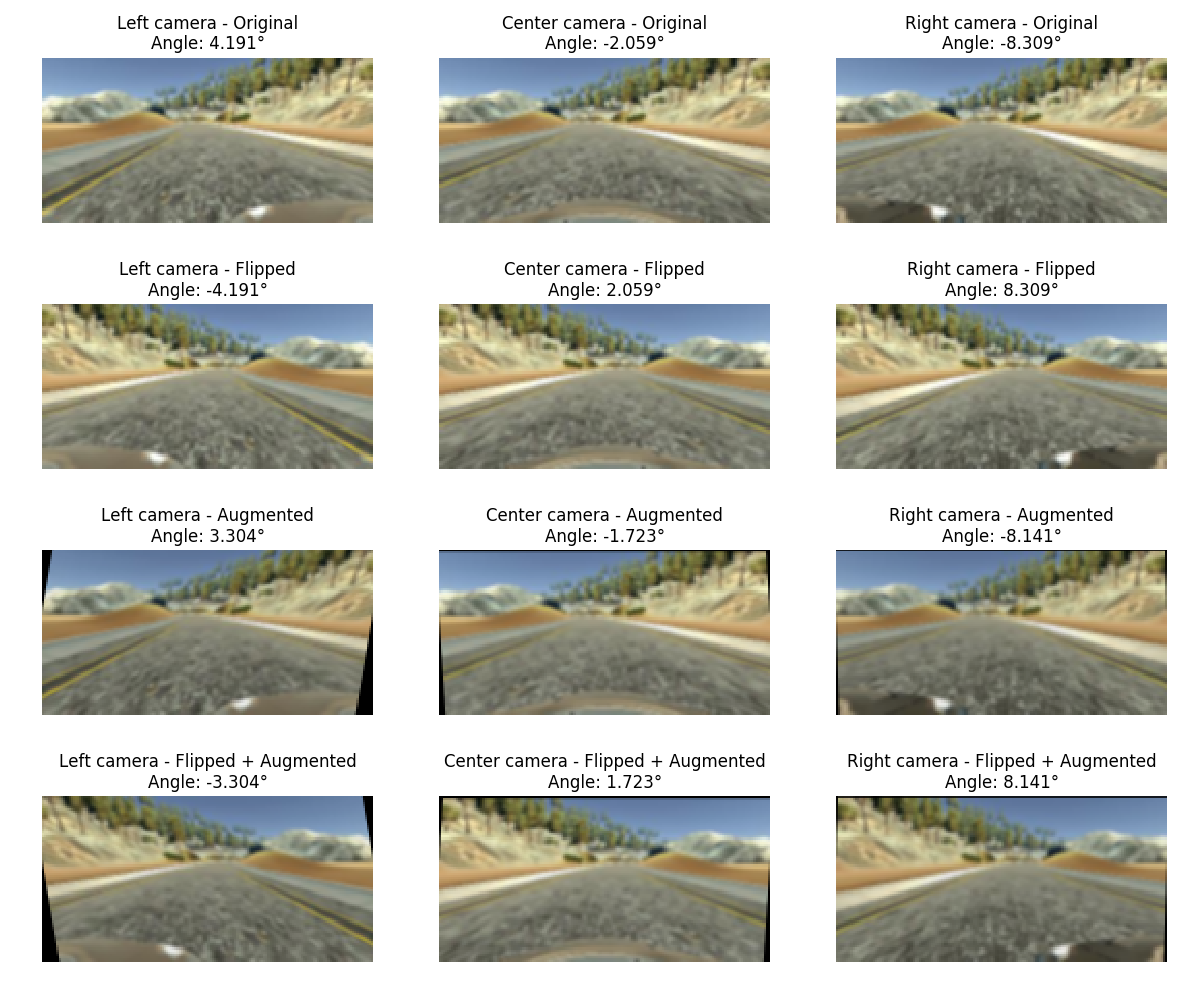
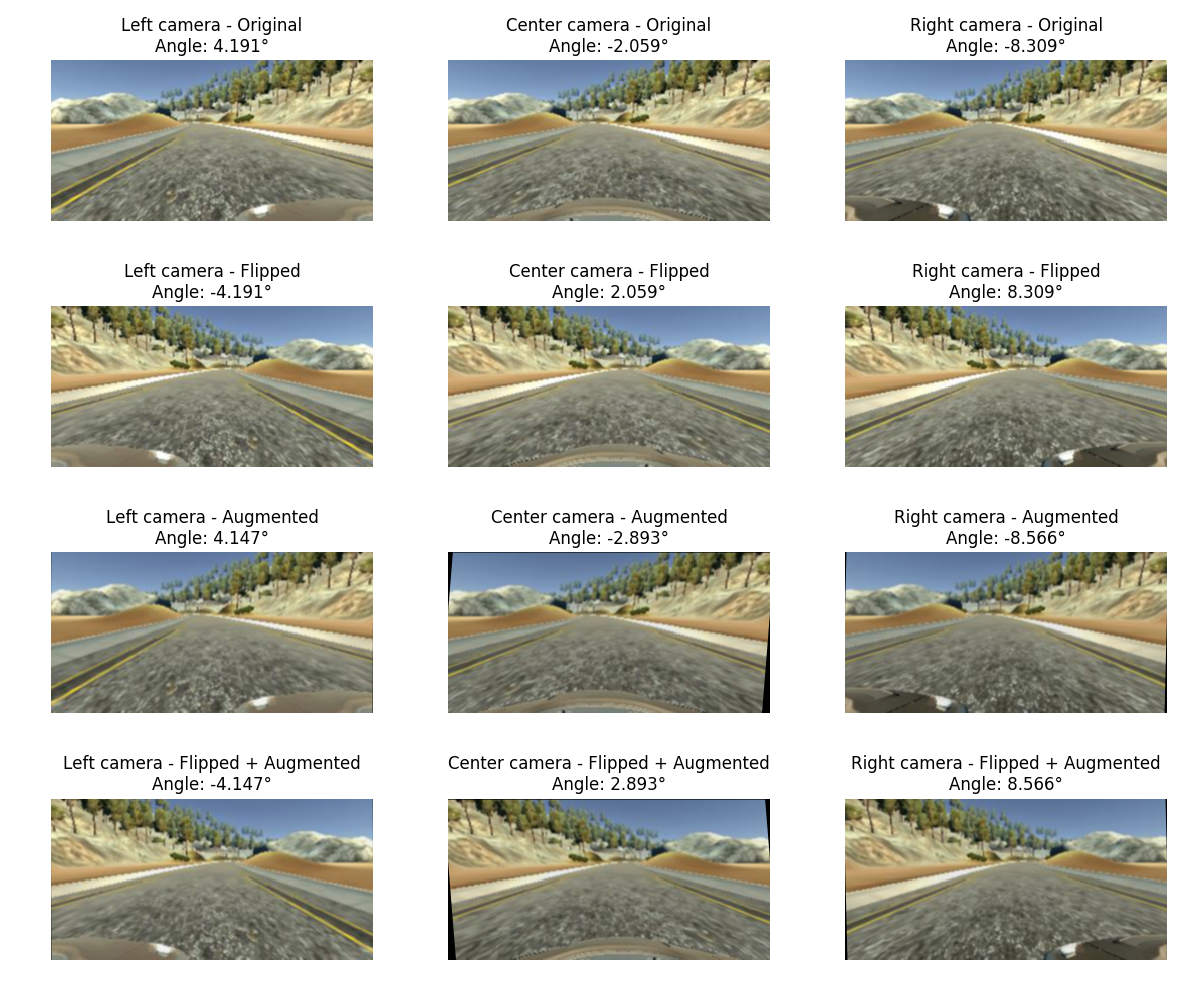
Checkpoint 17h56, 8/04/2017

diff --git a/CarND-Behavioral-Cloning-P3/README.md b/CarND-Behavioral-Cloning-P3/README.md
@@ -1,4 +1,4 @@
-##Use Deep Learning to Clone Driving Behavior
+## Use Deep Learning to Clone Driving Behavior
 [![Udacity - Self-Driving Car NanoDegree](https://s3.amazonaws.com/udacity-sdc/github/shield-carnd.svg)](http://www.udacity.com/drive)
 
 Overview
@@ -26,8 +26,9 @@ My project includes the following files:
 * model.py containing the script to create and train the model
 * drive.py for driving the car in autonomous mode
 * model.h5 containing a trained convolution neural network 
-* readme.md summarizing the results
+* README.md summarizing the results
 * video.mp4 showing 1 lap around track 1 @30mph and 1 lap around track 2 @ 20mph.
+* video.py python script used to create video.mp4
 
 #### 2. Submission includes functional code
 Using the Udacity provided simulator and my *drive.py* file, the car can be driven autonomously around both tracks at 20mph by executing 
@@ -153,13 +154,13 @@ To capture good driving behavior, I first concentrated on center lane driving. I
 
 Here's an two examples of center lane driving:
 
-##### Track 1:
+##### Recovery maneuver on track 1:
 <img src=./examples/center_lane_driving.png  width="1200">
 
-##### Track 2:
-<img src=./examples/center_lane_driving2.png  width="1200">|
+##### Recovery maneuver on track 2:
+<img src=./examples/center_lane_driving2.png  width="1200">
 
-I then recorded the vehicle recovering from the left side and right sides of the road back to center so that the vehicle would learn to come back to the center of the lane. 
+I then recorded the vehicle recovering from the left and right sides of the road back to the center in order to teach the network to recover if ever the car was too far off on one side of the road. 
 
 These images show what a recovery looks like :
 
@@ -177,21 +178,32 @@ These images show what a recovery looks like :
 | 2 |<img src=./examples/recoverytrack2step2.png  width="1200">|
 | 3 |<img src=./examples/recoverytrack2step3.png  width="1200">|
 
-During training, I noticed that I was suceptible to choose sharper recovery angles if I was driving at lower speed. I believe this is a natural driving reflex based on reaction and actuating time. Since I don't want my model to start oscillating from one edge of the road the other, I decided to remove the images and steering angles that have been recorded at speeds below 10mph (model.py line 342 ). 
-
+During training, I noticed that I was suceptible to choose sharper recovery angles if I was driving at lower speed. I believe this is a natural driving reflex based on reaction and actuating time. Since I didn't want my model to start oscillating from one edge of the road to the other, I decided to remove the images and steering angles that have been recorded at speeds below 10mph (model.py line 342 ). 
 
 To augment the data set, I also flipped images and angles thinking that this would cancel the steering angle occurence bias as we can see in the following images:
 <img src=./examples/histo_before_flip.png  width="1000">
 <img src=./examples/histo_after_flip.png  width="1000">
 
-For example, here is an image that has then been flipped:
+For example, here is an example of an image set that has been flipped:
+<img src=./examples/flipped_example.png  width="1000">
+
+To further augment the dataset and help the model generalize, I decided to implement a jittering function : *data_augmentation* (model.py lines 37-51). This function consists of a randomized brightness adjustment, a randomized horizon shift and a randomized lateral perspective shift. The horizon shift is meant to help the model to generalize in hilly conditions and thus perform better on track #2. The lateral shift, for its part, is meant to provide a greater variety of steering angle/image examples in order to help the network generalize. Points were chosen on the image (see figure below), and are then shifted to give a whole new perspective (model.py lines 74-83). A transfert function was determined empiricaly to augment the steering angles as well (model.py line 104).
+
+Here are the points chosen for the perspective shift:
+<img src=./examples/points_perspective_shift.jpg  width="320">
+
+Here are some example before and after augmentation:
+<img src=./examples/augmented_example.png  width="1000">
+
+These random transforms are applied on images from all three dashboard cameras to generate 3 new images and then 3 other images are generated by flipping the augmented images in order to keep the generated data mean value to 0.
+ 
+After the whole process, I had 65904 training sample and 28248 validation samples. 
+
+
+I then preprocessed this data by ... TODO..
 
 
 
-
-Etc ....
-
-After the collection process, I had X number of data points. I then preprocessed this data by ...
 
 ![alt text][image10]
 I finally randomly shuffled the data set and put Y% of the data into a validation set. 
@@ -201,7 +213,7 @@ I used this training data for training the model. The validation set helped dete
 
 <img src=./examples/model_loss_vs_epoch.png  width="1000">
 
-Best epoch is #3.. with val_loss =0.0084 and train_loss= 0.0055.
+Best epoch wass #3.. with val_loss =0.0084 and train_loss= 0.0055.
  Reload the 
 
 parler de la procédure de loader les weight et sauvegarder le model (j'en parle plus haut.. dans overfitting avoindance..)
@@ -212,4 +224,30 @@ parler de la procédure de loader les weight et sauvegarder le model (j'en parle
 Click on images below to see the full-length YouTube videos..
 
 [![30mph driving arround Track 1](./examples/giphy-track1.gif)](https://youtu.be/Ul6jH5K0HVA) [![20mph driving arround Track 2](./examples/giphy-track2.gif)](https://youtu.be/pdipLkbhiq4)
+
+
+
+
+Random shadows.. 
+
+I had the idea of converting the color space to YUV as the article fom Nvidia used but I found not easy way to convert it inside the Keras model. It had to be implemented in the model since the conversion is needed during inference as well.
+NVIDIA paper - section 4 https://arxiv.org/pdf/1604.07316.pdf
+
+ Comma.ai's model from: https://github.com/commaai/research.
+ 
+ I also tought of low-pass filter the steering angle data but since my dataset is made out of multiple "record on-record off".. it would make sense to filter this data. i would have had to separate each recording session and filter it individualy.
+ 
+I noticed the shadows does'nt appear when the grpahic mode "fastest" is selected. I decided to give a try with the shadows. Therefore I used random shadowing of the training images in order to densisitize the network to those.
+
+
+Gaussian Blur to smooth artifacts in the training images..
+
+Blog post inspirants :
+
+
+http://davidaventimiglia.com/carnd_behavioral_cloning_part1.html?fb_comment_id=1429370707086975_1432730663417646&comment_id=1432702413420471&reply_comment_id=1432730663417646#f2752653e047148
+
+data flatening:?
+in order to reduce the importance of data arround the 0 steering angle..
+
 
